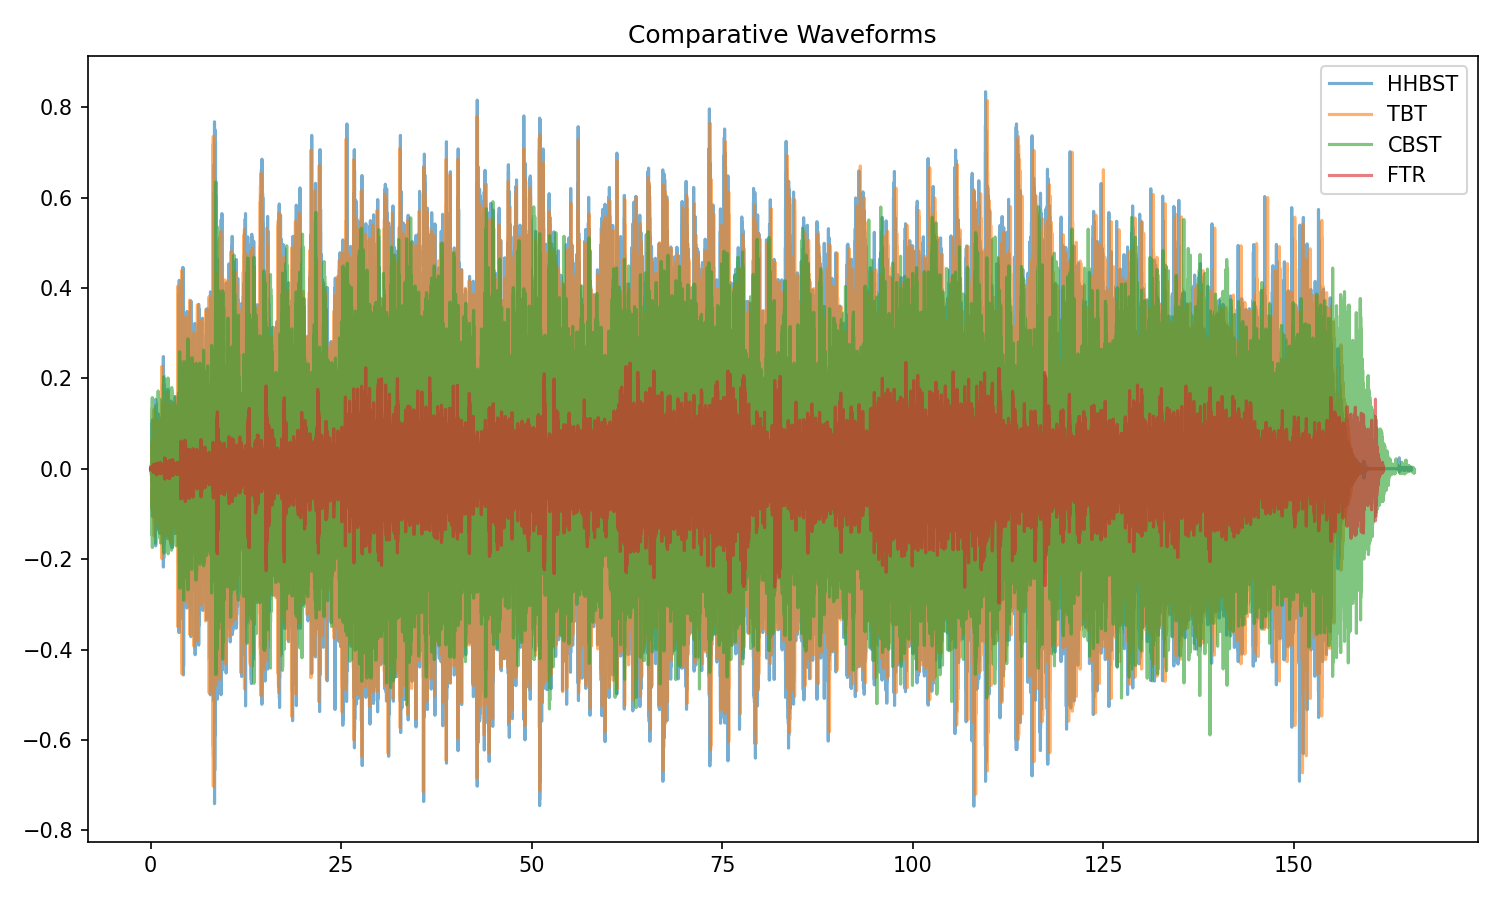
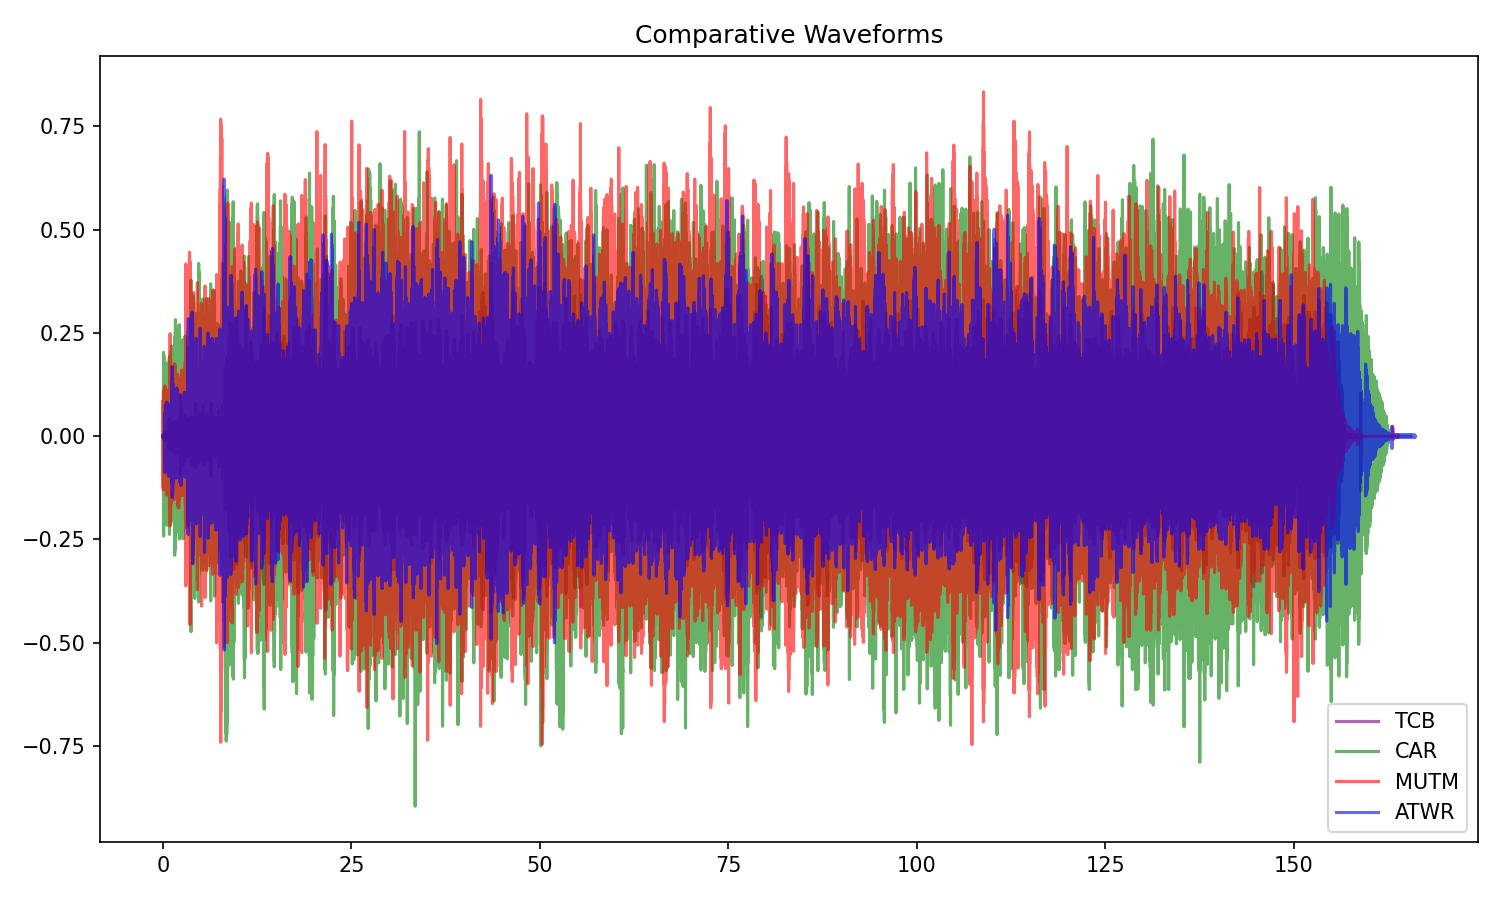
fixed orig_file extraction in features.csv

diff --git a/utils/analyse_song.py b/utils/analyse_song.py
@@ -18,10 +18,11 @@ import sys
 # --------------------------------------------
 LABEL_COLORS = {
     "HHST": "skyblue",
-    "ALT1": "orange",
-    "ALT2": "green",
-    "ALT3": "purple",
-    "TGBT": "red",
+    "TGBT": "orange",
+    "CAR": "green",
+    "TCB": "purple",
+    "MUTM": "red",
+    "ATWR": "blue",
 }
 
 # --------------------------------------------
@@ -31,9 +32,10 @@ LABEL_COLORS = {
 VERSION_LABEL_MAP = {
     "The Genuine Basement Tapes": "TGBT",
     "Home Tape": "HHST",
-    "Alternate Take 1": "ALT1",
-    "Alternate Take 2": "ALT2",
-    "Alternate Take 3": "ALT3",
+    "The Basement Tapes - Captain Acid 2020 restoration": "CAR",
+    "Basement Tapes Anthology [FLAC]": "TCB",
+    "Mixin Up The Medicine": "MUTM",
+    "A Tree With Roots": "ATWR",
 }
 
 
@@ -352,7 +354,7 @@ def analyse_song(
         [
             {
                 "label": f["label"],
-                "orig_file": f["orig_file"],
+                "orig_file": os.path.basename(f["orig_file"]),
                 "md5": f["md5"],
                 "disc": f["disc"],
                 "track": f["track"],

diff --git a/docs/songs/yagn.md b/docs/songs/yagn.md
@@ -5,52 +5,52 @@ song_label: yagn
 
 # You Ain't Going Nowhere [take 1]
 
+## Details
+
+| label   | orig_file                                              | md5                              |   disc |   track |   duration_sec | duration_fmt   |   loudness |       rms |   spectral_centroid |
+|:--------|:-------------------------------------------------------|:---------------------------------|-------:|--------:|---------------:|:---------------|-----------:|----------:|--------------------:|
+| TCB     | 03 You Ain't Going Nowhere.flac                        | 2c4c2435d5dff0f7cfee15aec4afb08c |      1 |       8 |        158.907 | 02:38:906      |   -22.6638 | 0.066491  |             1301.44 |
+| CAR     | 03-18-Bob_Dylan-You_Ain_t_Goin_Nowhere_Take_2-SMR.flac | a2e0474b1f4a6b1ca8c560b613d243dc |      1 |       8 |        165.586 | 02:45:586      |   -18.0316 | 0.125645  |             2214.41 |
+| MUTM    | 08 You Ain't Going Nowhere.flac                        | 1979579aad01620fedb490bbfed5a243 |      1 |       8 |        163.853 | 02:43:853      |   -18.372  | 0.111866  |             2135.98 |
+| ATWR    | 25 You Ain't Going Nowhere - Take 2.flac               | 6ea00dd92a20550b24e171e5344258f3 |      4 |      20 |        166.093 | 02:46:093      |   -22.2106 | 0.0733092 |             2264.23 |
+
+## Details (normalised)
+
+| label   | orig_file                                              | md5                              |   disc |   track |   duration_sec | duration_fmt   |   loudness |      rms |   spectral_centroid |
+|:--------|:-------------------------------------------------------|:---------------------------------|-------:|--------:|---------------:|:---------------|-----------:|---------:|--------------------:|
+| TCB     | 03 You Ain't Going Nowhere.flac                        | 2c4c2435d5dff0f7cfee15aec4afb08c |      1 |       8 |       0        | 02:38:906      |  0         | 0        |            0        |
+| CAR     | 03-18-Bob_Dylan-You_Ain_t_Goin_Nowhere_Take_2-SMR.flac | a2e0474b1f4a6b1ca8c560b613d243dc |      1 |       8 |       0.929452 | 02:45:586      |  1         | 1        |            0.948256 |
+| MUTM    | 08 You Ain't Going Nowhere.flac                        | 1979579aad01620fedb490bbfed5a243 |      1 |       8 |       0.688312 | 02:43:853      |  0.926518  | 0.767065 |            0.866795 |
+| ATWR    | 25 You Ain't Going Nowhere - Take 2.flac               | 6ea00dd92a20550b24e171e5344258f3 |      4 |      20 |       1        | 02:46:093      |  0.0978387 | 0.115263 |            1        |
+
 ## Plots
 ![Waveforms](../assets/songs/yagn/waveforms.png)
 ![Radar Plot](../assets/songs/yagn/radar_plot.png)
 ![MFCC Similarity](../assets/songs/yagn/similarity_matrix.png)
 
-## Details
-
-| label   | orig_file                               | md5                              |   disc |   track |   duration_sec | duration_fmt   |   loudness |       rms |   spectral_centroid |
-|:--------|:----------------------------------------|:---------------------------------|-------:|--------:|---------------:|:---------------|-----------:|----------:|--------------------:|
-| HHBST   | 08 you ain't going nowhere.flac         | 5038ca1a0ca8959dd430d9bccbdb9d9b |      1 |       8 |        165.467 | 02:45:466      |   -18.377  | 0.110888  |             2168.07 |
-| TBT     | Dylan & Band - Safety Tape_Track08.flac | 26b51386f50c7ca8ad26b414ab9da24e |      1 |       8 |        161.92  | 02:41:919      |   -18.8616 | 0.109126  |             1770.94 |
-| CBST    | 08 You Ain't Goin' Nowhere.flac         | 079ddac644de299bc4433f07699ee8f3 |      1 |       8 |        165.851 | 02:45:851      |   -21.1045 | 0.0877545 |             2365.49 |
-| FTR     | 20. You Ain't Going Nowhere.flac        | ad035069f5990e1d9a1b4b3ccee70625 |      4 |      20 |        161.733 | 02:41:733      |   -30.0751 | 0.0270326 |             1803.85 |
-
-## Details (normalised)
-
-| label   | orig_file                               | md5                              |   disc |   track |   duration_sec | duration_fmt   |   loudness |      rms |   spectral_centroid |
-|:--------|:----------------------------------------|:---------------------------------|-------:|--------:|---------------:|:---------------|-----------:|---------:|--------------------:|
-| HHBST   | 08 you ain't going nowhere.flac         | 5038ca1a0ca8959dd430d9bccbdb9d9b |      1 |       8 |      0.906588  | 02:45:466      |   1        | 1        |           0.667944  |
-| TBT     | Dylan & Band - Safety Tape_Track08.flac | 26b51386f50c7ca8ad26b414ab9da24e |      1 |       8 |      0.0453294 | 02:41:919      |   0.958572 | 0.978992 |           0         |
-| CBST    | 08 You Ain't Goin' Nowhere.flac         | 079ddac644de299bc4433f07699ee8f3 |      1 |       8 |      1         | 02:45:851      |   0.766837 | 0.724127 |           1         |
-| FTR     | 20. You Ain't Going Nowhere.flac        | ad035069f5990e1d9a1b4b3ccee70625 |      4 |      20 |      0         | 02:41:733      |   0        | 0        |           0.0553512 |
-
 ## Spectrograms
 
-### HHBST
+### TCB
 
-![STFT Spectrogram](../assets/songs/yagn/HHBST_spectrogram.png)
+![STFT Spectrogram](../assets/songs/yagn/TCB_spectrogram.png)
 
-![Mel Spectrogram](../assets/songs/yagn/HHBST_melspec.png)
+![Mel Spectrogram](../assets/songs/yagn/TCB_melspec.png)
 
-### TBT
+### CAR
 
-![STFT Spectrogram](../assets/songs/yagn/TBT_spectrogram.png)
+![STFT Spectrogram](../assets/songs/yagn/CAR_spectrogram.png)
 
-![Mel Spectrogram](../assets/songs/yagn/TBT_melspec.png)
+![Mel Spectrogram](../assets/songs/yagn/CAR_melspec.png)
 
-### CBST
+### MUTM
 
-![STFT Spectrogram](../assets/songs/yagn/CBST_spectrogram.png)
+![STFT Spectrogram](../assets/songs/yagn/MUTM_spectrogram.png)
 
-![Mel Spectrogram](../assets/songs/yagn/CBST_melspec.png)
+![Mel Spectrogram](../assets/songs/yagn/MUTM_melspec.png)
 
-### FTR
+### ATWR
 
-![STFT Spectrogram](../assets/songs/yagn/FTR_spectrogram.png)
+![STFT Spectrogram](../assets/songs/yagn/ATWR_spectrogram.png)
 
-![Mel Spectrogram](../assets/songs/yagn/FTR_melspec.png)
+![Mel Spectrogram](../assets/songs/yagn/ATWR_melspec.png)
 

diff --git a/results/yagn/yagn.md b/results/yagn/yagn.md
@@ -5,52 +5,52 @@ song_label: yagn
 
 # You Ain't Going Nowhere [take 1]
 
+## Details
+
+| label   | orig_file                                              | md5                              |   disc |   track |   duration_sec | duration_fmt   |   loudness |       rms |   spectral_centroid |
+|:--------|:-------------------------------------------------------|:---------------------------------|-------:|--------:|---------------:|:---------------|-----------:|----------:|--------------------:|
+| TCB     | 03 You Ain't Going Nowhere.flac                        | 2c4c2435d5dff0f7cfee15aec4afb08c |      1 |       8 |        158.907 | 02:38:906      |   -22.6638 | 0.066491  |             1301.44 |
+| CAR     | 03-18-Bob_Dylan-You_Ain_t_Goin_Nowhere_Take_2-SMR.flac | a2e0474b1f4a6b1ca8c560b613d243dc |      1 |       8 |        165.586 | 02:45:586      |   -18.0316 | 0.125645  |             2214.41 |
+| MUTM    | 08 You Ain't Going Nowhere.flac                        | 1979579aad01620fedb490bbfed5a243 |      1 |       8 |        163.853 | 02:43:853      |   -18.372  | 0.111866  |             2135.98 |
+| ATWR    | 25 You Ain't Going Nowhere - Take 2.flac               | 6ea00dd92a20550b24e171e5344258f3 |      4 |      20 |        166.093 | 02:46:093      |   -22.2106 | 0.0733092 |             2264.23 |
+
+## Details (normalised)
+
+| label   | orig_file                                              | md5                              |   disc |   track |   duration_sec | duration_fmt   |   loudness |      rms |   spectral_centroid |
+|:--------|:-------------------------------------------------------|:---------------------------------|-------:|--------:|---------------:|:---------------|-----------:|---------:|--------------------:|
+| TCB     | 03 You Ain't Going Nowhere.flac                        | 2c4c2435d5dff0f7cfee15aec4afb08c |      1 |       8 |       0        | 02:38:906      |  0         | 0        |            0        |
+| CAR     | 03-18-Bob_Dylan-You_Ain_t_Goin_Nowhere_Take_2-SMR.flac | a2e0474b1f4a6b1ca8c560b613d243dc |      1 |       8 |       0.929452 | 02:45:586      |  1         | 1        |            0.948256 |
+| MUTM    | 08 You Ain't Going Nowhere.flac                        | 1979579aad01620fedb490bbfed5a243 |      1 |       8 |       0.688312 | 02:43:853      |  0.926518  | 0.767065 |            0.866795 |
+| ATWR    | 25 You Ain't Going Nowhere - Take 2.flac               | 6ea00dd92a20550b24e171e5344258f3 |      4 |      20 |       1        | 02:46:093      |  0.0978387 | 0.115263 |            1        |
+
 ## Plots
 ![Waveforms](waveforms.png)
 ![Radar Plot](radar_plot.png)
 ![MFCC Similarity](similarity_matrix.png)
 
-## Details
-
-| label   | orig_file                               | md5                              |   disc |   track |   duration_sec | duration_fmt   |   loudness |       rms |   spectral_centroid |
-|:--------|:----------------------------------------|:---------------------------------|-------:|--------:|---------------:|:---------------|-----------:|----------:|--------------------:|
-| HHBST   | 08 you ain't going nowhere.flac         | 5038ca1a0ca8959dd430d9bccbdb9d9b |      1 |       8 |        165.467 | 02:45:466      |   -18.377  | 0.110888  |             2168.07 |
-| TBT     | Dylan & Band - Safety Tape_Track08.flac | 26b51386f50c7ca8ad26b414ab9da24e |      1 |       8 |        161.92  | 02:41:919      |   -18.8616 | 0.109126  |             1770.94 |
-| CBST    | 08 You Ain't Goin' Nowhere.flac         | 079ddac644de299bc4433f07699ee8f3 |      1 |       8 |        165.851 | 02:45:851      |   -21.1045 | 0.0877545 |             2365.49 |
-| FTR     | 20. You Ain't Going Nowhere.flac        | ad035069f5990e1d9a1b4b3ccee70625 |      4 |      20 |        161.733 | 02:41:733      |   -30.0751 | 0.0270326 |             1803.85 |
-
-## Details (normalised)
-
-| label   | orig_file                               | md5                              |   disc |   track |   duration_sec | duration_fmt   |   loudness |      rms |   spectral_centroid |
-|:--------|:----------------------------------------|:---------------------------------|-------:|--------:|---------------:|:---------------|-----------:|---------:|--------------------:|
-| HHBST   | 08 you ain't going nowhere.flac         | 5038ca1a0ca8959dd430d9bccbdb9d9b |      1 |       8 |      0.906588  | 02:45:466      |   1        | 1        |           0.667944  |
-| TBT     | Dylan & Band - Safety Tape_Track08.flac | 26b51386f50c7ca8ad26b414ab9da24e |      1 |       8 |      0.0453294 | 02:41:919      |   0.958572 | 0.978992 |           0         |
-| CBST    | 08 You Ain't Goin' Nowhere.flac         | 079ddac644de299bc4433f07699ee8f3 |      1 |       8 |      1         | 02:45:851      |   0.766837 | 0.724127 |           1         |
-| FTR     | 20. You Ain't Going Nowhere.flac        | ad035069f5990e1d9a1b4b3ccee70625 |      4 |      20 |      0         | 02:41:733      |   0        | 0        |           0.0553512 |
-
 ## Spectrograms
 
-### HHBST
+### TCB
 
-![STFT Spectrogram](HHBST_spectrogram.png)
+![STFT Spectrogram](TCB_spectrogram.png)
 
-![Mel Spectrogram](HHBST_melspec.png)
+![Mel Spectrogram](TCB_melspec.png)
 
-### TBT
+### CAR
 
-![STFT Spectrogram](TBT_spectrogram.png)
+![STFT Spectrogram](CAR_spectrogram.png)
 
-![Mel Spectrogram](TBT_melspec.png)
+![Mel Spectrogram](CAR_melspec.png)
 
-### CBST
+### MUTM
 
-![STFT Spectrogram](CBST_spectrogram.png)
+![STFT Spectrogram](MUTM_spectrogram.png)
 
-![Mel Spectrogram](CBST_melspec.png)
+![Mel Spectrogram](MUTM_melspec.png)
 
-### FTR
+### ATWR
 
-![STFT Spectrogram](FTR_spectrogram.png)
+![STFT Spectrogram](ATWR_spectrogram.png)
 
-![Mel Spectrogram](FTR_melspec.png)
+![Mel Spectrogram](ATWR_melspec.png)
 
